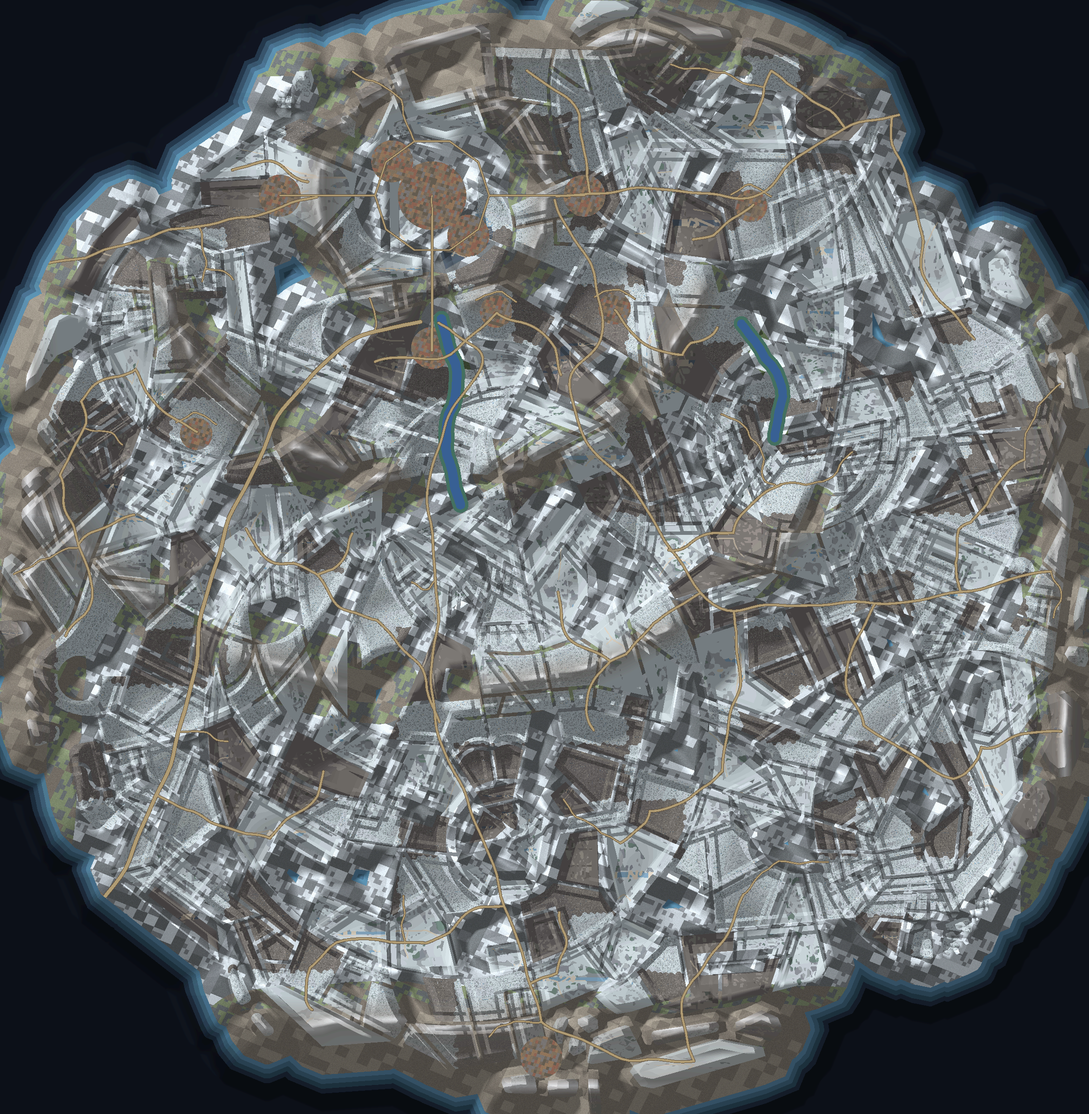
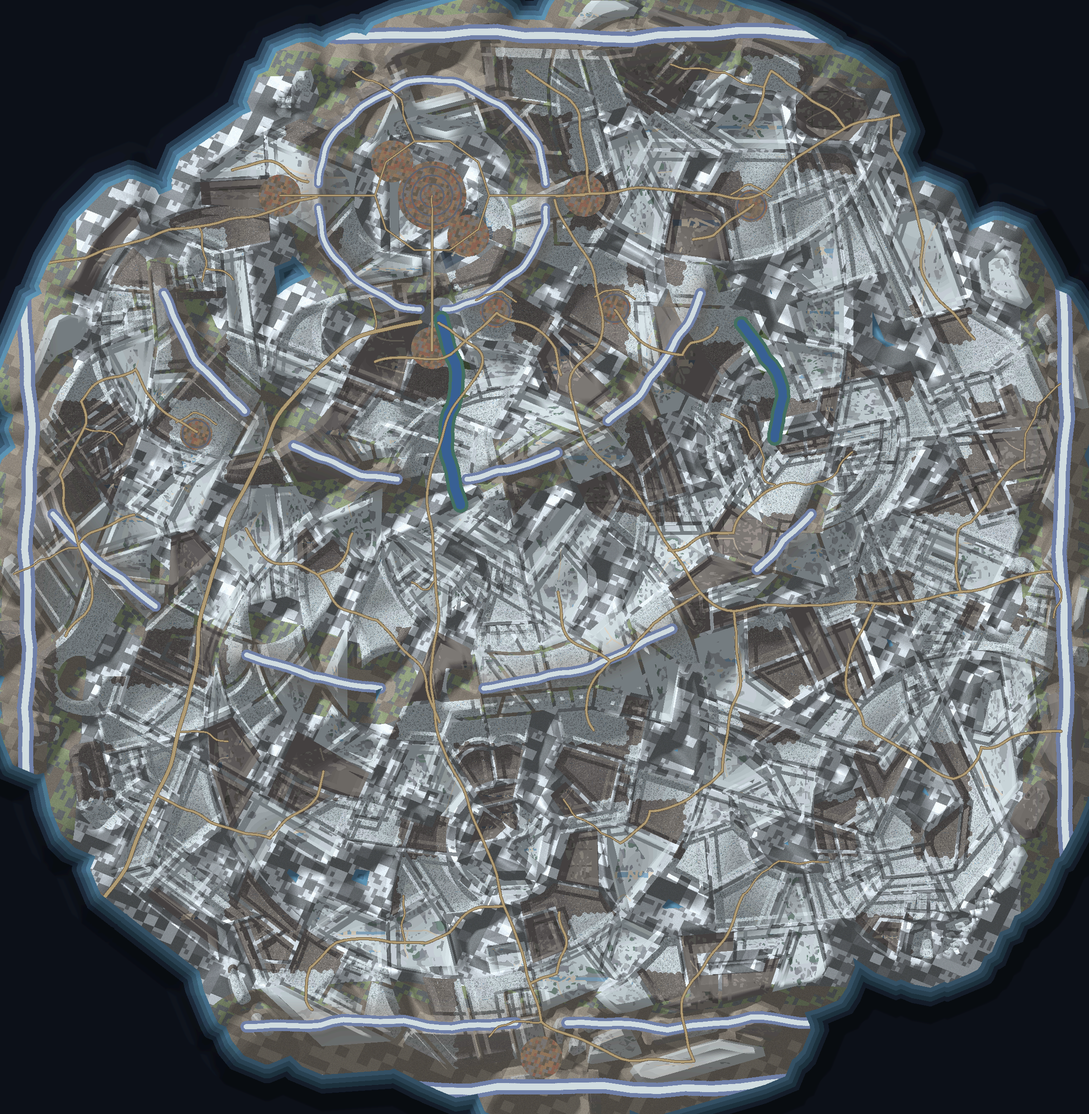
mosaic: fortification READS from the air — ridge bevel strokes (adaptive glacial/ice contrast) + castle ring-glyph footprints; fix land-mask-as-color bug (tar-black strokes)

diff --git a/map-service/maps/mosaic.js b/map-service/maps/mosaic.js
@@ -155,6 +155,40 @@ export function bakeFeatures(px, W, H, toCanvas, PPU, zone, land) {
     const R = (SETTLE_R[place.kind] || SETTLE_R.TOWN) * PPU, [cx, cy] = toCanvas(place.at[0], place.at[1]);
     discStamp(px, W, H, cx, cy, R, urbanFn(cx, cy), land); settles++;
   }
+  // 1b) RIDGE STROKES (owner 2026-08-31, Empyrea: "from aerial nothing seems fortified or obvious —
+  // the glacial rings where?"): hillshade alone drowns under parcel texture on pale land, so every
+  // authored ridge ALSO bakes as a bevel stroke — a wide SHADOW base + a narrow bright CREST,
+  // contrast ADAPTIVE to the land colour (dark strokes on snow, light crest on dark ground).
+  // NB `land` here is the LAND MASK (Uint8 clip), not a colour — the zone's ground colour comes
+  // from landColor(zone) (the first bake of this block read mask bytes and painted tar-black).
+  const lc = landColor(zone);
+  const lum = (lc[0] * 0.3 + lc[1] * 0.59 + lc[2] * 0.11) / 255;
+  // shadow = a COOL slope tint (blue-cast on pale land — glacial walls, not tar), crest = bright
+  const shade = lum > 0.5
+    ? [(lc[0] * 0.66) | 0, (lc[1] * 0.72) | 0, Math.min(255, (lc[2] * 0.86 + 10) | 0)]
+    : lc.map((c) => Math.max(0, (c * 0.66) | 0));
+  const crest = lc.map((c) => Math.min(255, (lum > 0.5 ? c * 1.1 + 22 : c * 1.45 + 34) | 0));
+  for (const rg of field.ridges || []) {
+    if (!rg.pts || rg.pts.length < 2) continue;
+    const wpx = Math.max(1.5, (rg.width || 6) * PPU * 0.34);
+    strokePoly(px, W, H, rg.pts, toCanvas, wpx, solid(shade), land);           // the shadowed wall body
+    strokePoly(px, W, H, rg.pts, toCanvas, wpx * 0.45, solid(crest), land);    // the sunlit crest band
+  }
+  // 1c) CASTLE FOOTPRINTS — fortification must READ from the air: concentric ring-wall glyphs by
+  // kind (PALACE 3 rings · CASTLE 2 · KEEP 1) in masonry grey over the urban patch, + a keep dot.
+  const WALL_C = lum > 0.5 ? [96, 102, 112] : [168, 172, 180];
+  const KIND_RINGS = { PALACE: 3, CASTLE: 2, KEEP: 1 };
+  for (const c of field.castles || []) {
+    if (!Array.isArray(c.at)) continue;
+    const n = KIND_RINGS[c.kind] || 1, R0 = (SETTLE_R[c.kind] || SETTLE_R.TOWN) * 0.85;
+    for (let k = 0; k < n; k++) {
+      const rr = R0 * (1 - k * 0.3), ring = [];
+      for (let a = 0; a <= 28; a++) ring.push([c.at[0] + Math.cos(a / 28 * Math.PI * 2) * rr, c.at[1] + Math.sin(a / 28 * Math.PI * 2) * rr]);
+      strokePoly(px, W, H, ring, toCanvas, Math.max(1.2, PPU * 0.09), solid(WALL_C), land);
+    }
+    const [kx, ky] = toCanvas(c.at[0], c.at[1]);
+    discStamp(px, W, H, kx, ky, Math.max(2, PPU * 0.14), solid(WALL_C), land);
+  }
   // 2) rivers — real flowing water at honest width (naval-ready). Bank tint first, then water core.
   let rivers = 0;
   for (const r of field.rivers || []) {
